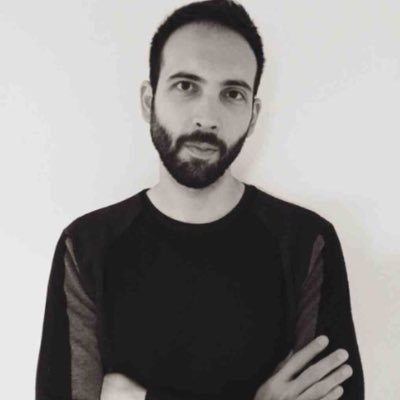
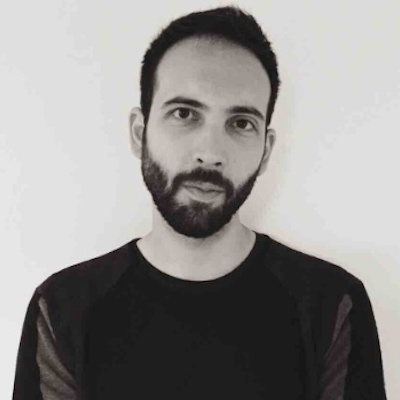
adds gaetano mazzanti

diff --git a/index.html b/index.html
@@ -229,6 +229,12 @@
               <h3>Emanuele Mantovani</h3>
             </div>
           </li>
+          <li>
+            <img src="/img/speakers/GaetanoMazzanti.jpg" alt="Gaetano Mazzanti">
+            <div class="speaker-box">
+              <h3>Gaetano Mazzanti</h3>
+            </div>
+          </li>
         </ul>
       </div>
     </section>
